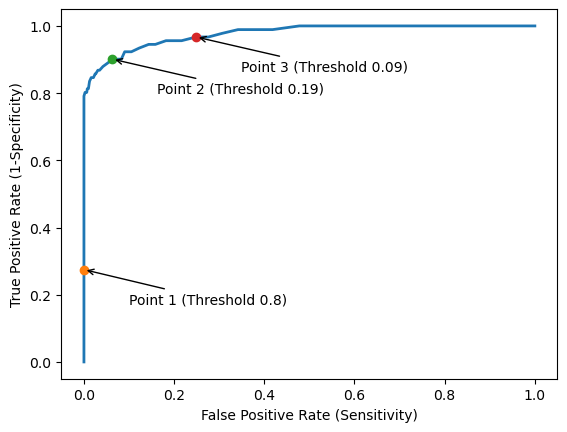
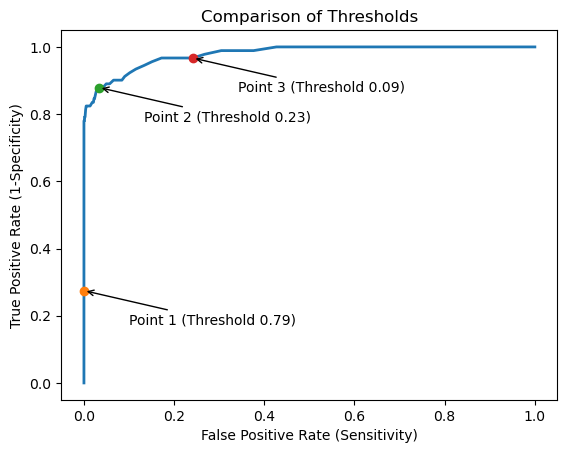
Built site for gh-pages

diff --git a/index.html b/index.html
@@ -135,7 +135,7 @@ pre > code.sourceCode > span > a:first-child::before { text-decoration: underlin
 <p>In addition, we’ll explore the decision-making process behind selecting a classification threshold and briefly discuss the implications of the area under the curve (AUC) for varying receiver operating characteristic (ROC) curves.</p>
 <p>It should be noted that this article uses a modified version of the digits dataset provided by sci-kit learn.</p>
 <p>Our version of the digits dataset converts the target lists for the classification task to boolean values, such that they are only valid for the digit “3” and invalid for all other digits – restricting our data to two classes.</p>
-<div class="cell" data-execution_count="68">
+<div class="cell" data-execution_count="3">
 <details>
 <summary>Code</summary>
 <div class="sourceCode cell-code" id="cb1"><pre class="sourceCode python code-with-copy"><code class="sourceCode python"><span id="cb1-1"><a href="#cb1-1" aria-hidden="true" tabindex="-1"></a><span class="co"># Loading and processing digits dataset</span></span>
@@ -163,7 +163,7 @@ pre > code.sourceCode > span > a:first-child::before { text-decoration: underlin
 <p>False-Positive Rate (1-specificity):</p>
 <p><span class="math inline">FP/(FP+TN)</span></p>
 <p>The plot below is an example of a ROC curve produced using our version of the digits dataset.</p>
-<div class="cell" data-execution_count="69">
+<div class="cell" data-execution_count="4">
 <details>
 <summary>Code</summary>
 <div class="sourceCode cell-code" id="cb2"><pre class="sourceCode python code-with-copy"><code class="sourceCode python"><span id="cb2-1"><a href="#cb2-1" aria-hidden="true" tabindex="-1"></a><span class="co"># Create classifier: RF </span></span>
@@ -193,7 +193,7 @@ pre > code.sourceCode > span > a:first-child::before { text-decoration: underlin
 <p>For a given test, we have a classification <strong>threshold</strong> for which any items above the threshold are part of the positive class and any items below the threshold are part of the negative class.</p>
 <p>As mentioned previously, the ROC curve visualizes how sensitivity and specificity are negatively correlated to each other with respect to these changes in the classification threshold.</p>
 <p>Consider the plots of our digits datasets with varying thresholds below:</p>
-<div class="cell" data-execution_count="70">
+<div class="cell" data-execution_count="5">
 <details>
 <summary>Code</summary>
 <div class="sourceCode cell-code" id="cb3"><pre class="sourceCode python code-with-copy"><code class="sourceCode python"><span id="cb3-1"><a href="#cb3-1" aria-hidden="true" tabindex="-1"></a>diff_fpr_tpr <span class="op">=</span> tpr <span class="op">-</span> fpr</span>
@@ -232,19 +232,20 @@ pre > code.sourceCode > span > a:first-child::before { text-decoration: underlin
 <p>We observed the effects of changes in threshold on both sensitivity and specificity using the ROC curve in the previous example.</p>
 <p>However, when it comes to selecting a threshold, we must consider the classification model on a case-by-case basis.</p>
 <p>To select the ideal classification threshold, it’s crucial to consider the context of the classification model.</p>
-<div class="cell" data-execution_count="71">
+<div class="cell" data-execution_count="6">
 <details>
 <summary>Code</summary>
 <div class="sourceCode cell-code" id="cb4"><pre class="sourceCode python code-with-copy"><code class="sourceCode python"><span id="cb4-1"><a href="#cb4-1" aria-hidden="true" tabindex="-1"></a>plt.plot(fpr, tpr, linewidth<span class="op">=</span><span class="dv">2</span>, label<span class="op">=</span><span class="st">"ROC curve"</span>)</span>
 <span id="cb4-2"><a href="#cb4-2" aria-hidden="true" tabindex="-1"></a>plt.xlabel(<span class="st">"False Positive Rate (Sensitivity)"</span>)</span>
 <span id="cb4-3"><a href="#cb4-3" aria-hidden="true" tabindex="-1"></a>plt.ylabel(<span class="st">"True Positive Rate (1-Specificity)"</span>)</span>
-<span id="cb4-4"><a href="#cb4-4" aria-hidden="true" tabindex="-1"></a><span class="cf">for</span> i <span class="kw">in</span> <span class="bu">range</span>(<span class="dv">3</span>):</span>
-<span id="cb4-5"><a href="#cb4-5" aria-hidden="true" tabindex="-1"></a>    plt.plot(fpr[threshold_index[i]],tpr[threshold_index[i]],<span class="st">"o"</span>)</span>
-<span id="cb4-6"><a href="#cb4-6" aria-hidden="true" tabindex="-1"></a>    plt.annotate(<span class="st">"Point "</span><span class="op">+</span><span class="bu">str</span>(i<span class="op">+</span><span class="dv">1</span>)<span class="op">+</span><span class="st">" (Threshold "</span><span class="op">+</span><span class="bu">str</span>(thresholds[threshold_index[i]])<span class="op">+</span><span class="st">")"</span>,(fpr[threshold_index[i]],tpr[threshold_index[i]]),</span>
-<span id="cb4-7"><a href="#cb4-7" aria-hidden="true" tabindex="-1"></a>                xytext<span class="op">=</span>(fpr[threshold_index[i]]<span class="op">+</span><span class="fl">0.1</span>,tpr[threshold_index[i]]<span class="op">-</span><span class="fl">0.1</span>),arrowprops<span class="op">=</span><span class="bu">dict</span>(arrowstyle<span class="op">=</span><span class="st">"-&gt;"</span>))</span>
-<span id="cb4-8"><a href="#cb4-8" aria-hidden="true" tabindex="-1"></a></span>
+<span id="cb4-4"><a href="#cb4-4" aria-hidden="true" tabindex="-1"></a>plt.title(<span class="st">"Comparison of Thresholds"</span>)</span>
+<span id="cb4-5"><a href="#cb4-5" aria-hidden="true" tabindex="-1"></a><span class="cf">for</span> i <span class="kw">in</span> <span class="bu">range</span>(<span class="dv">3</span>):</span>
+<span id="cb4-6"><a href="#cb4-6" aria-hidden="true" tabindex="-1"></a>    plt.plot(fpr[threshold_index[i]],tpr[threshold_index[i]],<span class="st">"o"</span>)</span>
+<span id="cb4-7"><a href="#cb4-7" aria-hidden="true" tabindex="-1"></a>    plt.annotate(<span class="st">"Point "</span><span class="op">+</span><span class="bu">str</span>(i<span class="op">+</span><span class="dv">1</span>)<span class="op">+</span><span class="st">" (Threshold "</span><span class="op">+</span><span class="bu">str</span>(thresholds[threshold_index[i]])<span class="op">+</span><span class="st">")"</span>,(fpr[threshold_index[i]],tpr[threshold_index[i]]),</span>
+<span id="cb4-8"><a href="#cb4-8" aria-hidden="true" tabindex="-1"></a>                xytext<span class="op">=</span>(fpr[threshold_index[i]]<span class="op">+</span><span class="fl">0.1</span>,tpr[threshold_index[i]]<span class="op">-</span><span class="fl">0.1</span>),arrowprops<span class="op">=</span><span class="bu">dict</span>(arrowstyle<span class="op">=</span><span class="st">"-&gt;"</span>))</span>
 <span id="cb4-9"><a href="#cb4-9" aria-hidden="true" tabindex="-1"></a></span>
-<span id="cb4-10"><a href="#cb4-10" aria-hidden="true" tabindex="-1"></a>plt.show()</span></code><button title="Copy to Clipboard" class="code-copy-button"><i class="bi"></i></button></pre></div>
+<span id="cb4-10"><a href="#cb4-10" aria-hidden="true" tabindex="-1"></a></span>
+<span id="cb4-11"><a href="#cb4-11" aria-hidden="true" tabindex="-1"></a>plt.show()</span></code><button title="Copy to Clipboard" class="code-copy-button"><i class="bi"></i></button></pre></div>
 </details>
 <div class="cell-output cell-output-display">
 <p><img src="roc_files/figure-html/cell-6-output-1.png" class="img-fluid"></p>
@@ -261,7 +262,7 @@ pre > code.sourceCode > span > a:first-child::before { text-decoration: underlin
 <p>Similarly to how the ROC curve gives a quick visual representation of the relationship between TPR and FPR, it also helps us understand the classifier’s accuracy.</p>
 <p>One way to compare classifiers is to calculate the area under the curve (AUC).</p>
 <p>The plot generated below compares our classifier with a random and ideal classifier.</p>
-<div class="cell" data-execution_count="72">
+<div class="cell" data-execution_count="7">
 <details>
 <summary>Code</summary>
 <div class="sourceCode cell-code" id="cb5"><pre class="sourceCode python code-with-copy"><code class="sourceCode python"><span id="cb5-1"><a href="#cb5-1" aria-hidden="true" tabindex="-1"></a>plt.plot(fpr, tpr, linewidth<span class="op">=</span><span class="dv">2</span>, label<span class="op">=</span>(<span class="st">"RF classifier - AUC "</span><span class="op">+</span><span class="bu">str</span>(metrics.auc(fpr,tpr))[:<span class="dv">4</span>]))</span>
@@ -269,9 +270,10 @@ pre > code.sourceCode > span > a:first-child::before { text-decoration: underlin
 <span id="cb5-3"><a href="#cb5-3" aria-hidden="true" tabindex="-1"></a>plt.plot([<span class="dv">0</span>,<span class="dv">0</span>, <span class="dv">1</span>], [<span class="dv">0</span>,<span class="dv">1</span>, <span class="dv">1</span>],<span class="st">"-."</span>, label<span class="op">=</span><span class="st">"Ideal Classifier - AUC 1.0"</span>)</span>
 <span id="cb5-4"><a href="#cb5-4" aria-hidden="true" tabindex="-1"></a>plt.xlabel(<span class="st">"False Positive Rate (Sensitivity)"</span>)</span>
 <span id="cb5-5"><a href="#cb5-5" aria-hidden="true" tabindex="-1"></a>plt.ylabel(<span class="st">"True Positive Rate (1-Specificity)"</span>)</span>
-<span id="cb5-6"><a href="#cb5-6" aria-hidden="true" tabindex="-1"></a></span>
-<span id="cb5-7"><a href="#cb5-7" aria-hidden="true" tabindex="-1"></a>plt.legend()</span>
-<span id="cb5-8"><a href="#cb5-8" aria-hidden="true" tabindex="-1"></a>plt.show()</span></code><button title="Copy to Clipboard" class="code-copy-button"><i class="bi"></i></button></pre></div>
+<span id="cb5-6"><a href="#cb5-6" aria-hidden="true" tabindex="-1"></a>plt.title(<span class="st">"Comparison of ROC Curves"</span>)</span>
+<span id="cb5-7"><a href="#cb5-7" aria-hidden="true" tabindex="-1"></a></span>
+<span id="cb5-8"><a href="#cb5-8" aria-hidden="true" tabindex="-1"></a>plt.legend()</span>
+<span id="cb5-9"><a href="#cb5-9" aria-hidden="true" tabindex="-1"></a>plt.show()</span></code><button title="Copy to Clipboard" class="code-copy-button"><i class="bi"></i></button></pre></div>
 </details>
 <div class="cell-output cell-output-display">
 <p><img src="roc_files/figure-html/cell-7-output-1.png" class="img-fluid"></p>

diff --git a/roc.html b/roc.html
@@ -135,7 +135,7 @@ pre > code.sourceCode > span > a:first-child::before { text-decoration: underlin
 <p>In addition, we’ll explore the decision-making process behind selecting a classification threshold and briefly discuss the implications of the area under the curve (AUC) for varying receiver operating characteristic (ROC) curves.</p>
 <p>It should be noted that this article uses a modified version of the digits dataset provided by sci-kit learn.</p>
 <p>Our version of the digits dataset converts the target lists for the classification task to boolean values, such that they are only valid for the digit “3” and invalid for all other digits – restricting our data to two classes.</p>
-<div class="cell" data-execution_count="68">
+<div class="cell" data-execution_count="3">
 <details>
 <summary>Code</summary>
 <div class="sourceCode cell-code" id="cb1"><pre class="sourceCode python code-with-copy"><code class="sourceCode python"><span id="cb1-1"><a href="#cb1-1" aria-hidden="true" tabindex="-1"></a><span class="co"># Loading and processing digits dataset</span></span>
@@ -163,7 +163,7 @@ pre > code.sourceCode > span > a:first-child::before { text-decoration: underlin
 <p>False-Positive Rate (1-specificity):</p>
 <p><span class="math inline">FP/(FP+TN)</span></p>
 <p>The plot below is an example of a ROC curve produced using our version of the digits dataset.</p>
-<div class="cell" data-execution_count="69">
+<div class="cell" data-execution_count="4">
 <details>
 <summary>Code</summary>
 <div class="sourceCode cell-code" id="cb2"><pre class="sourceCode python code-with-copy"><code class="sourceCode python"><span id="cb2-1"><a href="#cb2-1" aria-hidden="true" tabindex="-1"></a><span class="co"># Create classifier: RF </span></span>
@@ -193,7 +193,7 @@ pre > code.sourceCode > span > a:first-child::before { text-decoration: underlin
 <p>For a given test, we have a classification <strong>threshold</strong> for which any items above the threshold are part of the positive class and any items below the threshold are part of the negative class.</p>
 <p>As mentioned previously, the ROC curve visualizes how sensitivity and specificity are negatively correlated to each other with respect to these changes in the classification threshold.</p>
 <p>Consider the plots of our digits datasets with varying thresholds below:</p>
-<div class="cell" data-execution_count="70">
+<div class="cell" data-execution_count="5">
 <details>
 <summary>Code</summary>
 <div class="sourceCode cell-code" id="cb3"><pre class="sourceCode python code-with-copy"><code class="sourceCode python"><span id="cb3-1"><a href="#cb3-1" aria-hidden="true" tabindex="-1"></a>diff_fpr_tpr <span class="op">=</span> tpr <span class="op">-</span> fpr</span>
@@ -232,19 +232,20 @@ pre > code.sourceCode > span > a:first-child::before { text-decoration: underlin
 <p>We observed the effects of changes in threshold on both sensitivity and specificity using the ROC curve in the previous example.</p>
 <p>However, when it comes to selecting a threshold, we must consider the classification model on a case-by-case basis.</p>
 <p>To select the ideal classification threshold, it’s crucial to consider the context of the classification model.</p>
-<div class="cell" data-execution_count="71">
+<div class="cell" data-execution_count="6">
 <details>
 <summary>Code</summary>
 <div class="sourceCode cell-code" id="cb4"><pre class="sourceCode python code-with-copy"><code class="sourceCode python"><span id="cb4-1"><a href="#cb4-1" aria-hidden="true" tabindex="-1"></a>plt.plot(fpr, tpr, linewidth<span class="op">=</span><span class="dv">2</span>, label<span class="op">=</span><span class="st">"ROC curve"</span>)</span>
 <span id="cb4-2"><a href="#cb4-2" aria-hidden="true" tabindex="-1"></a>plt.xlabel(<span class="st">"False Positive Rate (Sensitivity)"</span>)</span>
 <span id="cb4-3"><a href="#cb4-3" aria-hidden="true" tabindex="-1"></a>plt.ylabel(<span class="st">"True Positive Rate (1-Specificity)"</span>)</span>
-<span id="cb4-4"><a href="#cb4-4" aria-hidden="true" tabindex="-1"></a><span class="cf">for</span> i <span class="kw">in</span> <span class="bu">range</span>(<span class="dv">3</span>):</span>
-<span id="cb4-5"><a href="#cb4-5" aria-hidden="true" tabindex="-1"></a>    plt.plot(fpr[threshold_index[i]],tpr[threshold_index[i]],<span class="st">"o"</span>)</span>
-<span id="cb4-6"><a href="#cb4-6" aria-hidden="true" tabindex="-1"></a>    plt.annotate(<span class="st">"Point "</span><span class="op">+</span><span class="bu">str</span>(i<span class="op">+</span><span class="dv">1</span>)<span class="op">+</span><span class="st">" (Threshold "</span><span class="op">+</span><span class="bu">str</span>(thresholds[threshold_index[i]])<span class="op">+</span><span class="st">")"</span>,(fpr[threshold_index[i]],tpr[threshold_index[i]]),</span>
-<span id="cb4-7"><a href="#cb4-7" aria-hidden="true" tabindex="-1"></a>                xytext<span class="op">=</span>(fpr[threshold_index[i]]<span class="op">+</span><span class="fl">0.1</span>,tpr[threshold_index[i]]<span class="op">-</span><span class="fl">0.1</span>),arrowprops<span class="op">=</span><span class="bu">dict</span>(arrowstyle<span class="op">=</span><span class="st">"-&gt;"</span>))</span>
-<span id="cb4-8"><a href="#cb4-8" aria-hidden="true" tabindex="-1"></a></span>
+<span id="cb4-4"><a href="#cb4-4" aria-hidden="true" tabindex="-1"></a>plt.title(<span class="st">"Comparison of Thresholds"</span>)</span>
+<span id="cb4-5"><a href="#cb4-5" aria-hidden="true" tabindex="-1"></a><span class="cf">for</span> i <span class="kw">in</span> <span class="bu">range</span>(<span class="dv">3</span>):</span>
+<span id="cb4-6"><a href="#cb4-6" aria-hidden="true" tabindex="-1"></a>    plt.plot(fpr[threshold_index[i]],tpr[threshold_index[i]],<span class="st">"o"</span>)</span>
+<span id="cb4-7"><a href="#cb4-7" aria-hidden="true" tabindex="-1"></a>    plt.annotate(<span class="st">"Point "</span><span class="op">+</span><span class="bu">str</span>(i<span class="op">+</span><span class="dv">1</span>)<span class="op">+</span><span class="st">" (Threshold "</span><span class="op">+</span><span class="bu">str</span>(thresholds[threshold_index[i]])<span class="op">+</span><span class="st">")"</span>,(fpr[threshold_index[i]],tpr[threshold_index[i]]),</span>
+<span id="cb4-8"><a href="#cb4-8" aria-hidden="true" tabindex="-1"></a>                xytext<span class="op">=</span>(fpr[threshold_index[i]]<span class="op">+</span><span class="fl">0.1</span>,tpr[threshold_index[i]]<span class="op">-</span><span class="fl">0.1</span>),arrowprops<span class="op">=</span><span class="bu">dict</span>(arrowstyle<span class="op">=</span><span class="st">"-&gt;"</span>))</span>
 <span id="cb4-9"><a href="#cb4-9" aria-hidden="true" tabindex="-1"></a></span>
-<span id="cb4-10"><a href="#cb4-10" aria-hidden="true" tabindex="-1"></a>plt.show()</span></code><button title="Copy to Clipboard" class="code-copy-button"><i class="bi"></i></button></pre></div>
+<span id="cb4-10"><a href="#cb4-10" aria-hidden="true" tabindex="-1"></a></span>
+<span id="cb4-11"><a href="#cb4-11" aria-hidden="true" tabindex="-1"></a>plt.show()</span></code><button title="Copy to Clipboard" class="code-copy-button"><i class="bi"></i></button></pre></div>
 </details>
 <div class="cell-output cell-output-display">
 <p><img src="roc_files/figure-html/cell-6-output-1.png" class="img-fluid"></p>
@@ -261,7 +262,7 @@ pre > code.sourceCode > span > a:first-child::before { text-decoration: underlin
 <p>Similarly to how the ROC curve gives a quick visual representation of the relationship between TPR and FPR, it also helps us understand the classifier’s accuracy.</p>
 <p>One way to compare classifiers is to calculate the area under the curve (AUC).</p>
 <p>The plot generated below compares our classifier with a random and ideal classifier.</p>
-<div class="cell" data-execution_count="72">
+<div class="cell" data-execution_count="7">
 <details>
 <summary>Code</summary>
 <div class="sourceCode cell-code" id="cb5"><pre class="sourceCode python code-with-copy"><code class="sourceCode python"><span id="cb5-1"><a href="#cb5-1" aria-hidden="true" tabindex="-1"></a>plt.plot(fpr, tpr, linewidth<span class="op">=</span><span class="dv">2</span>, label<span class="op">=</span>(<span class="st">"RF classifier - AUC "</span><span class="op">+</span><span class="bu">str</span>(metrics.auc(fpr,tpr))[:<span class="dv">4</span>]))</span>
@@ -269,9 +270,10 @@ pre > code.sourceCode > span > a:first-child::before { text-decoration: underlin
 <span id="cb5-3"><a href="#cb5-3" aria-hidden="true" tabindex="-1"></a>plt.plot([<span class="dv">0</span>,<span class="dv">0</span>, <span class="dv">1</span>], [<span class="dv">0</span>,<span class="dv">1</span>, <span class="dv">1</span>],<span class="st">"-."</span>, label<span class="op">=</span><span class="st">"Ideal Classifier - AUC 1.0"</span>)</span>
 <span id="cb5-4"><a href="#cb5-4" aria-hidden="true" tabindex="-1"></a>plt.xlabel(<span class="st">"False Positive Rate (Sensitivity)"</span>)</span>
 <span id="cb5-5"><a href="#cb5-5" aria-hidden="true" tabindex="-1"></a>plt.ylabel(<span class="st">"True Positive Rate (1-Specificity)"</span>)</span>
-<span id="cb5-6"><a href="#cb5-6" aria-hidden="true" tabindex="-1"></a></span>
-<span id="cb5-7"><a href="#cb5-7" aria-hidden="true" tabindex="-1"></a>plt.legend()</span>
-<span id="cb5-8"><a href="#cb5-8" aria-hidden="true" tabindex="-1"></a>plt.show()</span></code><button title="Copy to Clipboard" class="code-copy-button"><i class="bi"></i></button></pre></div>
+<span id="cb5-6"><a href="#cb5-6" aria-hidden="true" tabindex="-1"></a>plt.title(<span class="st">"Comparison of ROC Curves"</span>)</span>
+<span id="cb5-7"><a href="#cb5-7" aria-hidden="true" tabindex="-1"></a></span>
+<span id="cb5-8"><a href="#cb5-8" aria-hidden="true" tabindex="-1"></a>plt.legend()</span>
+<span id="cb5-9"><a href="#cb5-9" aria-hidden="true" tabindex="-1"></a>plt.show()</span></code><button title="Copy to Clipboard" class="code-copy-button"><i class="bi"></i></button></pre></div>
 </details>
 <div class="cell-output cell-output-display">
 <p><img src="roc_files/figure-html/cell-7-output-1.png" class="img-fluid"></p>
